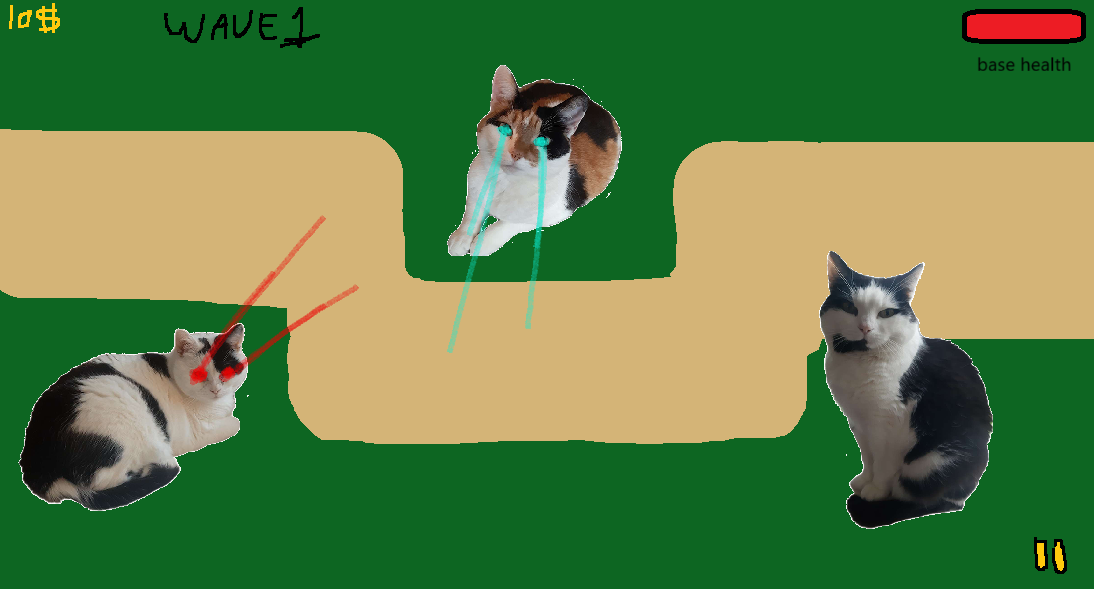
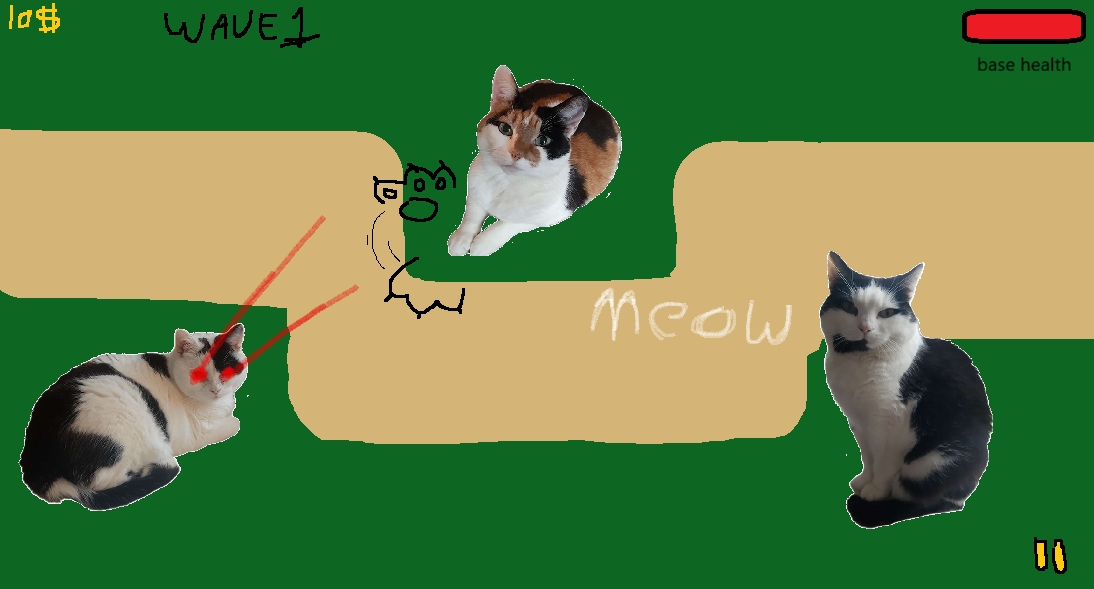
readme

Changed region(s): [[0.3419, 0.2139, 0.4973, 0.5501], [0.5283, 0.489, 0.7459, 0.5806], [0.3419, 0.4278, 0.4351, 0.6112]]

diff --git a/README.md b/README.md
@@ -27,12 +27,13 @@ Je schets bevat minimaal:
 ![schets](readmeassets/schetsc2.png)
 
 ## 4. Torens
-Toren 1 naam, bereik, schade, unieke eigenschap.
-Boefie, poot slag, medium damage, ?
-Toren 2 naam, bereik, schade, unieke eigenschap.
-Poekie, laser ogen, high damage, ?
+
+Boefie, poot slag, small range, medium damage
+
+Poekie, meow, long range, medium damage
 
 Eventuele extra torens:
+Rocky, laser ogen, medium range, high damage
 
 ## 5. Vijanden
 Vijand 1 naam, snelheid, levens, speciale eigenschap.
@@ -47,14 +48,14 @@ Beschrijf in drie tot vijf stappen wat de speler steeds doet.
 
 2. geld maken
 
-3.
+3. enemys vermoorden
 
 4.
 
 5.
 
 ## 7. Progressie
-Leg uit hoe het spel moeilijker wordt naarmate de waves doorgaan. Denk aan sterkere vijanden, kortere tussenpozen, hogere kosten of lagere beloningen.
+je moet wijs zijn met je geld omdat je later de high damage die meer kost nodig heb, maar je verdient niet meer geld per wave terwijl de enemys wel sterker worden
 
 ## 8. Risico’s en oplossingen volgens PIO
 - Probleem 1:
